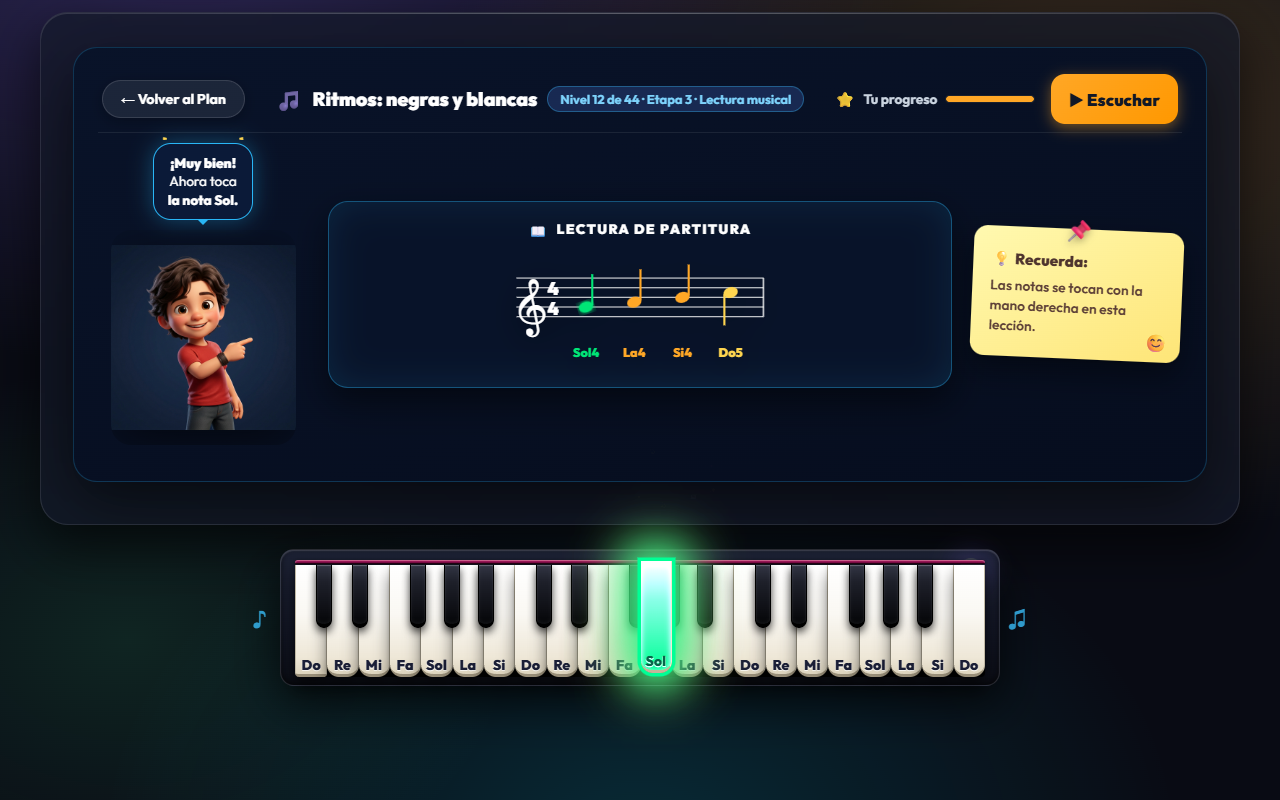
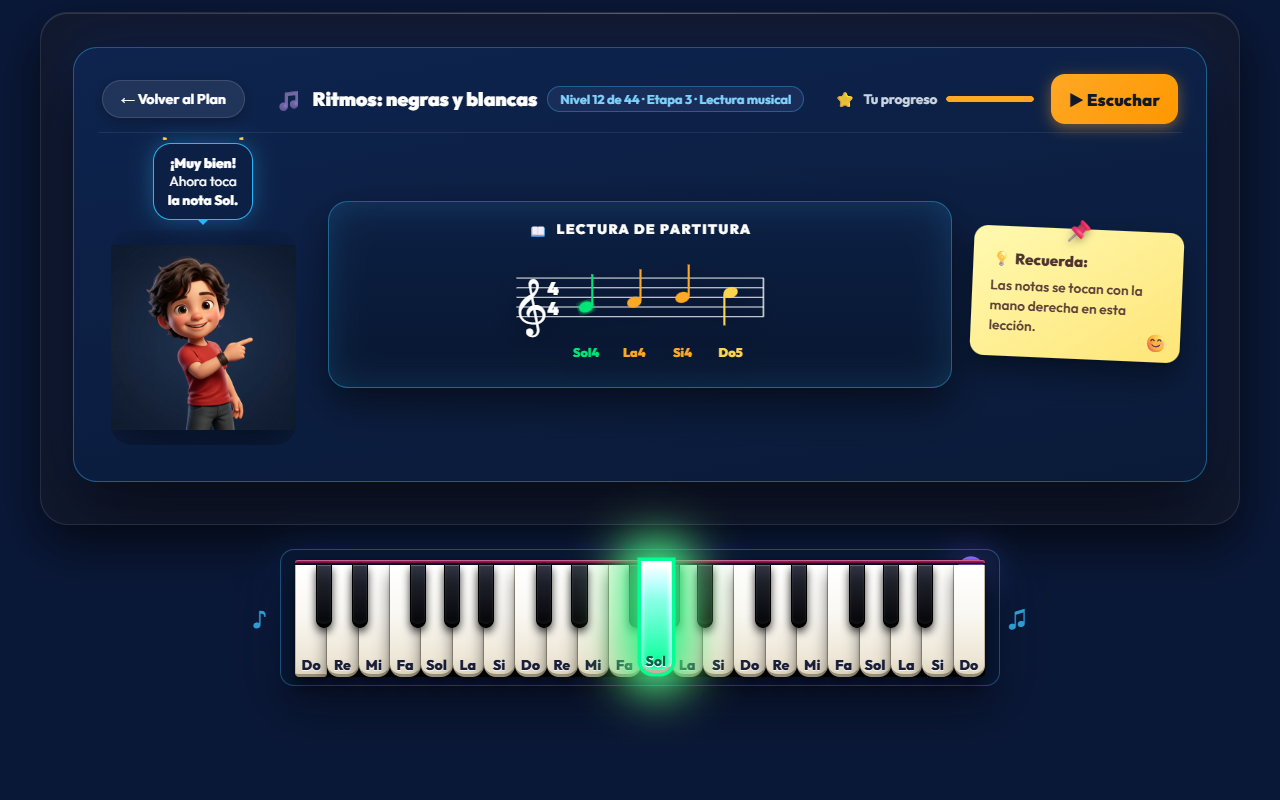
style(theme): Ajustar fondo global y consolas a Azul Medianoche Oficial 100% fiel al mockup

diff --git a/styles.css b/styles.css
@@ -5,8 +5,8 @@
 
 :root {
   /* Paleta Base Obsidian & Espacio Profundo */
-  --bg: #090b14;
-  --bg-surface: #101424;
+  --bg: #091326;
+  --bg-surface: #0e1e40;
   --bg-card: rgba(20, 25, 42, 0.72);
   --bg-card-hover: rgba(28, 35, 58, 0.85);
   
@@ -66,18 +66,17 @@ body {
   position: relative;
 }
 
-/* Aurora & Mesh Background */
+/* Fondo Azul Medianoche Oficial con Resplandor Fiel al Mockup 3.0 */
 .bg {
   position: fixed;
   inset: 0;
   z-index: -1;
   pointer-events: none;
   background:
-    radial-gradient(1200px 750px at 15% -10%, rgba(139, 108, 255, 0.28), transparent 60%),
-    radial-gradient(1100px 700px at 85% 15%, rgba(255, 181, 71, 0.2), transparent 60%),
-    radial-gradient(900px 650px at 50% 105%, rgba(0, 229, 255, 0.14), transparent 60%),
-    radial-gradient(700px 500px at 10% 80%, rgba(61, 220, 132, 0.12), transparent 55%),
-    var(--bg);
+    radial-gradient(1400px 900px at 50% 15%, #122858 0%, #0a1634 50%, #060e22 100%),
+    radial-gradient(900px 700px at 80% 50%, rgba(26, 60, 130, 0.4), transparent 70%),
+    radial-gradient(900px 700px at 20% 70%, rgba(18, 45, 105, 0.4), transparent 70%),
+    #060e22;
   background-attachment: fixed;
 }
 
@@ -6479,4 +6478,193 @@ header .subtitle {
 
 .mascotSpeechBubble::after {
   border-top-color: #29b6f6 !important;
+}
+
+
+/* ==========================================================================
+   TEMA AZUL MEDIANOCHE 100% FIEL AL MOCKUP OFICIAL EASY PIANO 3.0
+   ========================================================================== */
+body {
+  background-color: #060e22 !important;
+  color: #f8fafc;
+}
+
+.lobbyConsoleCard {
+  background: linear-gradient(170deg, #0d1e40 0%, #09142c 100%) !important;
+  border: 1.5px solid rgba(56, 189, 248, 0.35) !important;
+  box-shadow: 0 24px 64px rgba(0, 0, 0, 0.7), 0 0 50px rgba(14, 116, 233, 0.18) !important;
+}
+
+#practice {
+  background: linear-gradient(170deg, #0d1e40 0%, #09142c 100%) !important;
+  border: 1.5px solid rgba(56, 189, 248, 0.35) !important;
+  box-shadow: 0 24px 64px rgba(0, 0, 0, 0.7), 0 0 50px rgba(14, 116, 233, 0.18) !important;
+}
+
+.lobbyHeroFeatureCard {
+  background: linear-gradient(145deg, #102654 0%, #0b1a3c 100%) !important;
+  border: 1.5px solid rgba(56, 189, 248, 0.38) !important;
+  box-shadow: 0 16px 42px rgba(0, 0, 0, 0.55), 0 0 35px rgba(56, 189, 248, 0.12) inset !important;
+}
+
+.practiceStaffCol {
+  background: linear-gradient(180deg, #0a1736 0%, #071026 100%) !important;
+  border: 1.5px solid rgba(56, 189, 248, 0.4) !important;
+  box-shadow: 0 16px 42px rgba(0, 0, 0, 0.55), 0 0 35px rgba(56, 189, 248, 0.16) inset !important;
+}
+
+.sidebarDock .dockBtn:not(.active) {
+  background: #0d1c3a !important;
+  border: 1px solid rgba(56, 189, 248, 0.22) !important;
+  color: #e2e8f0 !important;
+}
+
+.sidebarDock .dockBtn:not(.active):hover {
+  background: #132854 !important;
+  border-color: rgba(56, 189, 248, 0.4) !important;
+}
+
+.headerNavBtn:not(.active) {
+  background: #0d1b38 !important;
+  border: 1px solid rgba(56, 189, 248, 0.22) !important;
+  color: #e2e8f0 !important;
+}
+
+.headerNavBtn:not(.active):hover {
+  background: #132852 !important;
+  border-color: rgba(56, 189, 248, 0.38) !important;
+}
+
+.headerUserChip {
+  background: #0d1b38 !important;
+  border: 1px solid rgba(56, 189, 248, 0.25) !important;
+}
+
+.carouselPill:not(.active) {
+  background: #0d1c3a !important;
+  border: 1px solid rgba(56, 189, 248, 0.22) !important;
+  color: #e2e8f0 !important;
+}
+
+.progLeftCol, .progCheerBadge {
+  background: #0b1836 !important;
+  border: 1px solid rgba(56, 189, 248, 0.22) !important;
+}
+
+#pianoWrap {
+  background: #071024 !important;
+  border: 1.5px solid rgba(56, 189, 248, 0.3) !important;
+  box-shadow: 0 20px 50px rgba(0, 0, 0, 0.65), 0 0 35px rgba(56, 189, 248, 0.12) !important;
+}
+
+.heroSpeechBubble, .mascotSpeechBubble {
+  background: #0b1a38 !important;
+  border: 1.5px solid #29b6f6 !important;
+}
+
+/* ==========================================================================
+   TEMA AZUL MEDIANOCHE 100% FIEL AL MOCKUP OFICIAL EASY PIANO 3.0
+   ========================================================================== */
+html, body {
+  background: #0a1838 !important;
+  background-color: #0a1838 !important;
+  color: #f8fafc;
+}
+
+.bg {
+  position: fixed;
+  inset: 0;
+  z-index: -1;
+  pointer-events: none;
+  background:
+    radial-gradient(1500px 900px at 50% 15%, #163674 0%, #0d214c 45%, #07132e 100%),
+    radial-gradient(1000px 800px at 85% 65%, rgba(37, 99, 235, 0.35), transparent 70%),
+    radial-gradient(1000px 800px at 15% 75%, rgba(30, 64, 175, 0.35), transparent 70%),
+    #07132e !important;
+  background-attachment: fixed;
+}
+
+.lobbyConsoleCard {
+  background: linear-gradient(170deg, #0e244e 0%, #0a1a38 100%) !important;
+  border: 1.5px solid rgba(56, 189, 248, 0.38) !important;
+  box-shadow: 0 24px 64px rgba(0, 0, 0, 0.7), 0 0 50px rgba(29, 78, 216, 0.25) !important;
+}
+
+#practice {
+  background: linear-gradient(170deg, #0e244e 0%, #0a1a38 100%) !important;
+  border: 1.5px solid rgba(56, 189, 248, 0.38) !important;
+  box-shadow: 0 24px 64px rgba(0, 0, 0, 0.7), 0 0 50px rgba(29, 78, 216, 0.25) !important;
+}
+
+.lobbyHeroFeatureCard {
+  background: linear-gradient(145deg, #122f64 0%, #0d2248 100%) !important;
+  border: 1.5px solid rgba(56, 189, 248, 0.42) !important;
+  box-shadow: 0 16px 42px rgba(0, 0, 0, 0.55), 0 0 40px rgba(56, 189, 248, 0.16) inset !important;
+}
+
+/* Resplandor azul detrás de Mateo en el Hero Card */
+.heroMascotWrap {
+  background: radial-gradient(circle at center, rgba(37, 99, 235, 0.55) 0%, rgba(30, 64, 175, 0.3) 45%, transparent 75%) !important;
+  border-radius: 50% !important;
+}
+
+.practiceStaffCol {
+  background: linear-gradient(180deg, #0c2044 0%, #081630 100%) !important;
+  border: 1.5px solid rgba(56, 189, 248, 0.45) !important;
+  box-shadow: 0 16px 42px rgba(0, 0, 0, 0.55), 0 0 35px rgba(56, 189, 248, 0.18) inset !important;
+}
+
+/* Resplandor azul detrás de Mateo señalando */
+.mascotFigureWrap {
+  background: radial-gradient(circle at center, rgba(37, 99, 235, 0.55) 0%, rgba(30, 64, 175, 0.3) 45%, transparent 75%) !important;
+  border-radius: 50% !important;
+}
+
+.sidebarDock .dockBtn:not(.active) {
+  background: #0f244c !important;
+  border: 1px solid rgba(56, 189, 248, 0.25) !important;
+  color: #e2e8f0 !important;
+}
+
+.sidebarDock .dockBtn:not(.active):hover {
+  background: #173872 !important;
+  border-color: rgba(56, 189, 248, 0.45) !important;
+}
+
+.headerNavBtn:not(.active) {
+  background: #0e2248 !important;
+  border: 1px solid rgba(56, 189, 248, 0.25) !important;
+  color: #e2e8f0 !important;
+}
+
+.headerNavBtn:not(.active):hover {
+  background: #163670 !important;
+  border-color: rgba(56, 189, 248, 0.45) !important;
+}
+
+.headerUserChip {
+  background: #0e2248 !important;
+  border: 1px solid rgba(56, 189, 248, 0.28) !important;
+}
+
+.carouselPill:not(.active) {
+  background: #0f244c !important;
+  border: 1px solid rgba(56, 189, 248, 0.25) !important;
+  color: #e2e8f0 !important;
+}
+
+.progLeftCol, .progCheerBadge {
+  background: #0c1f44 !important;
+  border: 1px solid rgba(56, 189, 248, 0.25) !important;
+}
+
+#pianoWrap {
+  background: #081632 !important;
+  border: 1.5px solid rgba(56, 189, 248, 0.35) !important;
+  box-shadow: 0 20px 50px rgba(0, 0, 0, 0.65), 0 0 40px rgba(37, 99, 235, 0.2) !important;
+}
+
+.heroSpeechBubble, .mascotSpeechBubble {
+  background: #0c2046 !important;
+  border: 1.5px solid #29b6f6 !important;
 }
